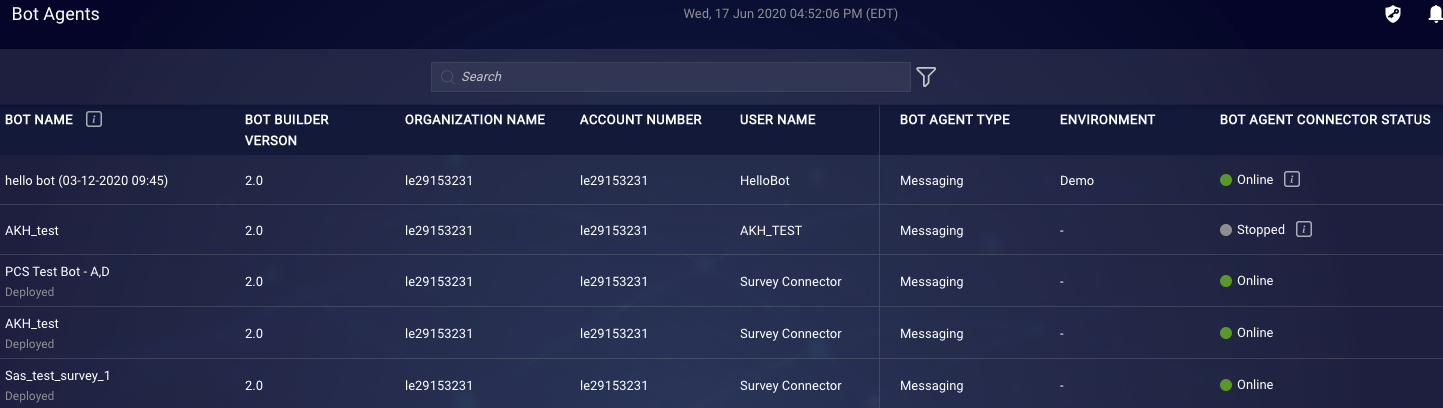
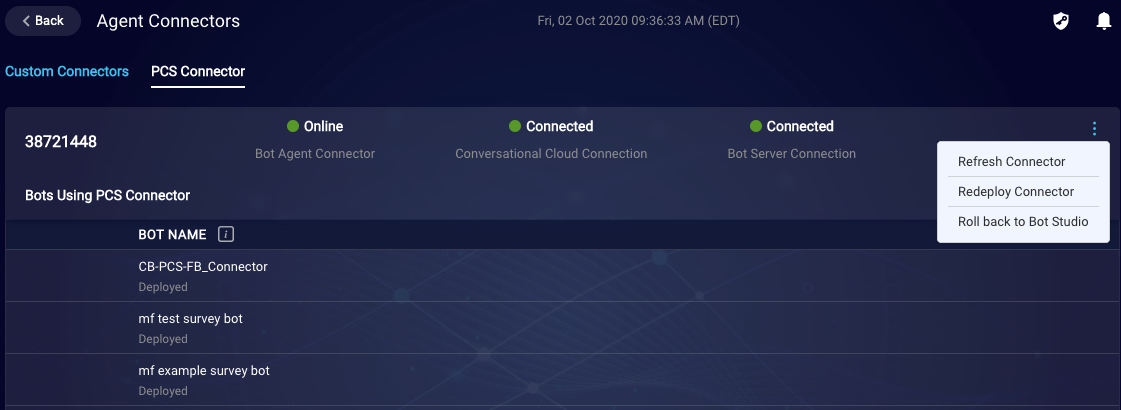
Update to reflect new PCS tab

diff --git a/pages/Documents/ConversationalAI/BotsStatus/managing-post-conversation-survey-bots.md b/pages/Documents/ConversationalAI/BotsStatus/managing-post-conversation-survey-bots.md
@@ -12,14 +12,13 @@ indicator: both
 
 You can use the Bots Status application that's intended for monitoring agent connectors to monitor your [post-conversation survey bots](conversation-builder-bots-post-conversation-survey-bots.html). There are a few important distinctions to be aware of as you do so:
 
-* You can identify survey bots by examining the **User Name**. This is always "Survey Connector." (Custom bots display the agent name that's configured in Conversational Cloud.)
 * While each survey bot is listed individually in the dashboard, they all share a single agent connector.
 * Successfully deployed survey bots display "Deployed" beneath the bot name.
 
-<img class="fancyimage" style="width:1000px" src="img/ConvoBuilder/surveyBot_monitoring1.png">
+<img class="fancyimage" style="width:800px" src="img/ConvoBuilder/surveyBot_monitoring1.png">
 
 {: .important}
-Keep in mind that all survey bots share a single agent connector, so performing any operation on one survey bot affects all the survey bots.
+Since all survey bots share a single agent connector, performing any operation on the agent connector affects all the survey bots.
 
 ### Troubleshooting - Redeploy the connector
 
@@ -28,6 +27,7 @@ Redeploying the connector stops and restarts it. Use this as a troubleshooting t
 **To redeploy the survey bot connector**
 
 1. Access the Bots Status application as described [here](bots-status-overview.html#access-bots-status).
-2. Use the filter controls to display the survey bots for the relevant environment.
-3. Select one of the survey bots, and click <img style="width:25px" src="img/ConvoBuilder/icon_ellipsis_vertical.png"> (3-dot icon) beside the bot name.
-4. Select **Redeploy Connector**.
+2. Click the **PCS Connector** tab.
+3. Click <img style="width:25px" src="img/ConvoBuilder/icon_ellipsis_vertical.png"> (3-dot icon) beside the connector, and select **Redeploy Connector**.
+
+    <img class="fancyimage" style="width:800px" src="img/ConvoBuilder/surveybot_redeploy.png">
